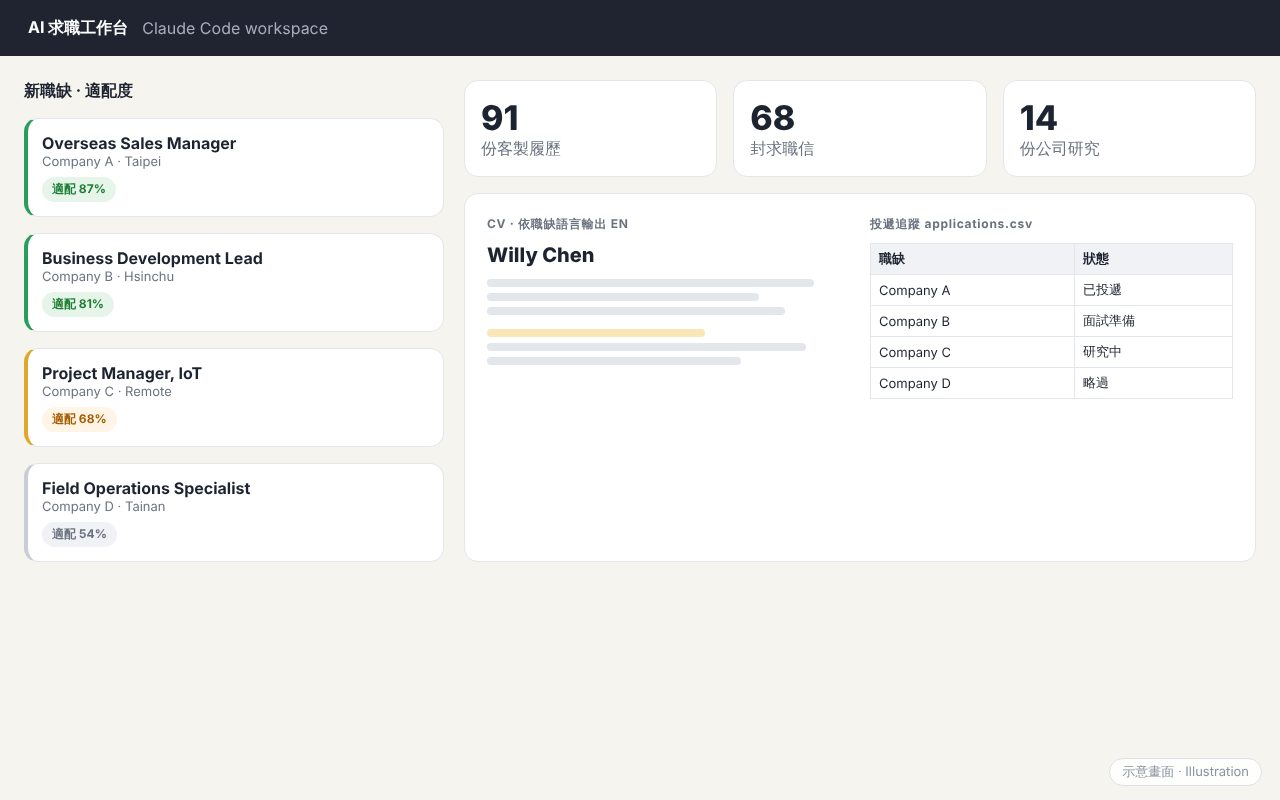
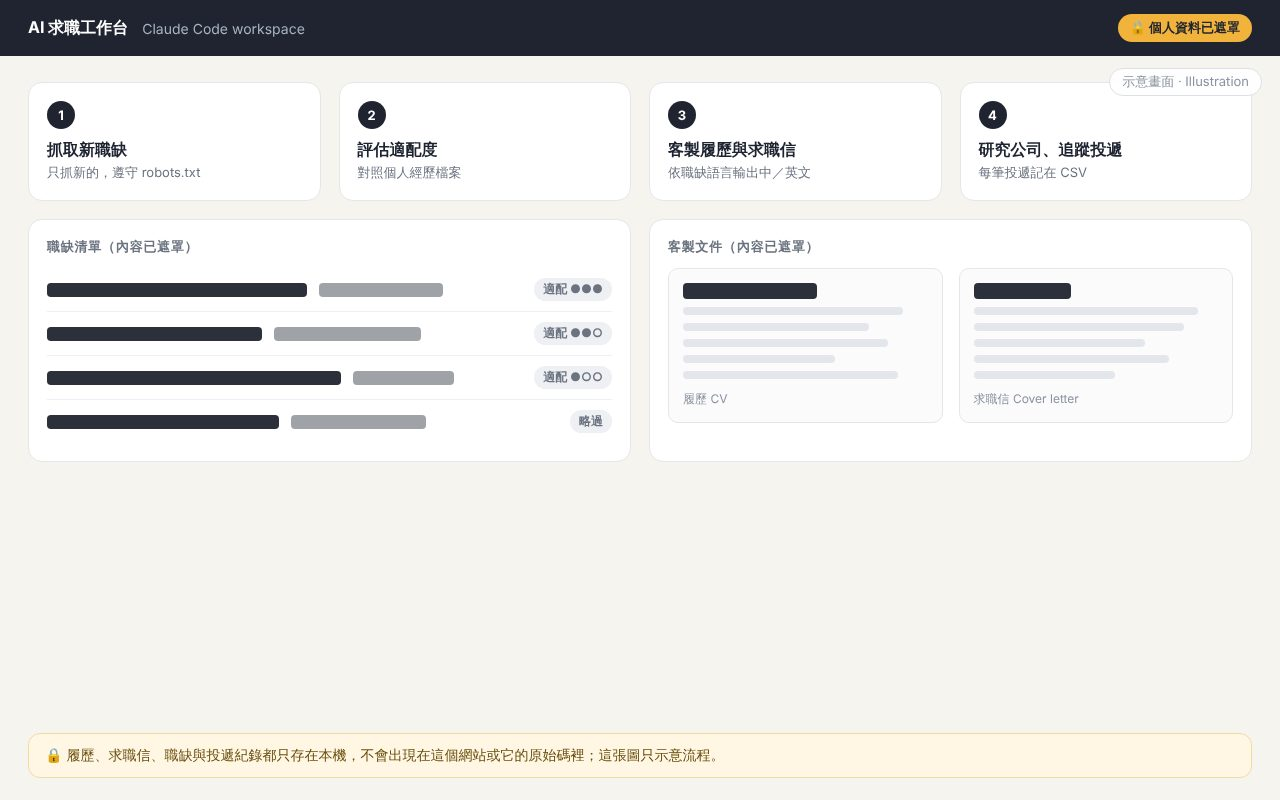
AI 求職工作台：遮罩所有求職相關個人資料
- 示意圖改為完全遮罩版本：不含姓名、職稱、公司、地點、適配分數與投遞狀態
- 移除求職數量統計（履歷、求職信、公司研究份數），改寫為不含個資的重點
- 「我的說明」補上：履歷與投遞紀錄只存在本機、不公開

Claude-Session: https://claude.ai/code/session_0159W8eQRxG57UFKLXJHqugJ

diff --git a/works.js b/works.js
@@ -129,11 +129,11 @@ window.WORKS = [
    "JSON-LD scraping",
    "CSV"
   ],
-  "highlight": "91 份履歷、68 封求職信、14 份公司研究",
-  "highlight_en": "91 CVs · 68 cover letters · 14 company research files",
+  "highlight": "職缺評估、客製文件、投遞追蹤一條龍；個人資料只存在本機、不公開",
+  "highlight_en": "Fit scoring, tailored documents and tracking in one place; personal data stays local and private",
   "links": [],
-  "my_note": "用了之後，確實能很有效率地收集各地的職缺資料，並和自己的履歷經驗逐一比對。",
-  "my_note_en": "It genuinely made collecting job postings from many places efficient, and matching each one against my own experience.",
+  "my_note": "用了之後，確實能很有效率地收集各地的職缺資料，並和自己的履歷經驗逐一比對。履歷、求職信與投遞紀錄都只留在自己的電腦，不放上網路。",
+  "my_note_en": "It genuinely made collecting job postings from many places efficient, and matching each one against my own experience. CVs, cover letters and application records stay on my own computer and are never published.",
   "shot": "assets/shots/jobsearch.jpg",
   "shot_kind": "illustration"
  },
